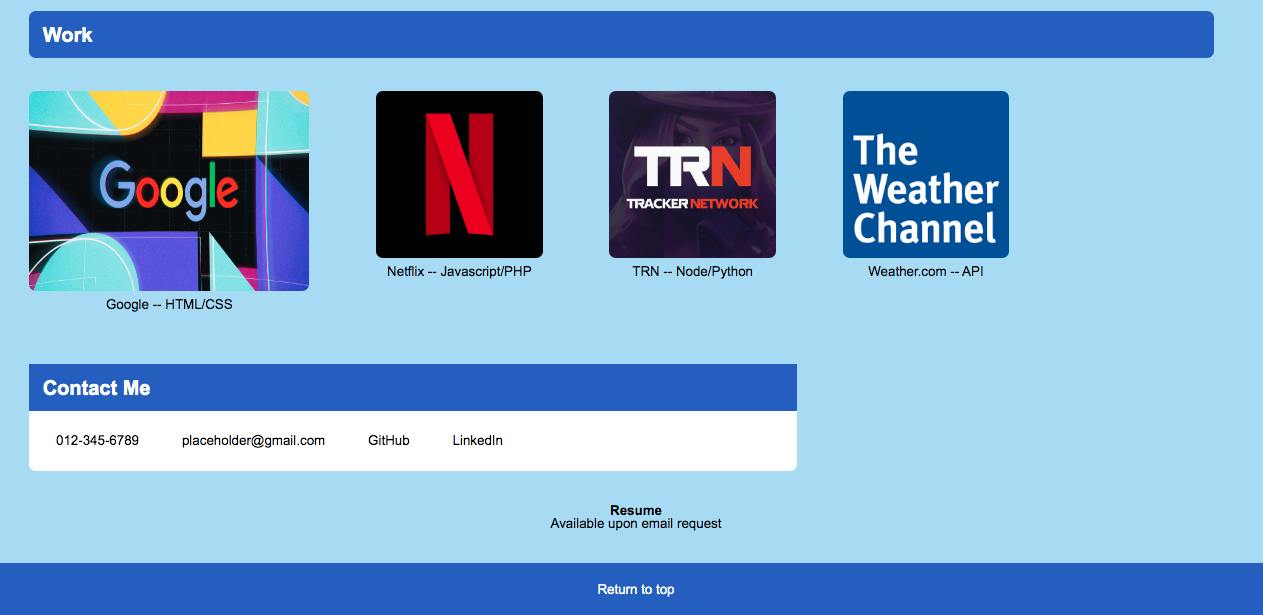
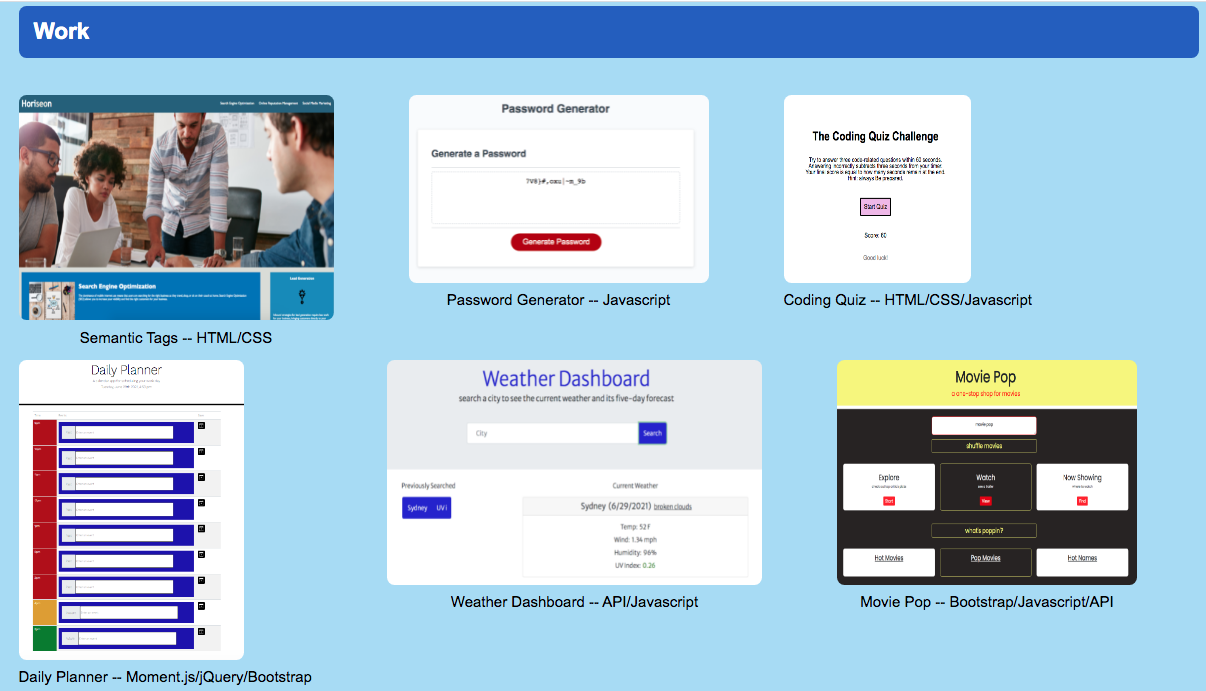
updated readme

diff --git a/README.md b/README.md
@@ -2,11 +2,11 @@
 
 Summary: 
 <br>
-The objective of this application is to function as a placeholder for future portfolio content and working applications. Principles of HMTL, CSS, and Git were employed. Please check back during the summer months of 2021, as content will be updated periodically. All past homework (1-6) and project 1 has been updated as of 6/29/21. For best results, render using Google Chrome.
+The objective of this application is to function as a portfolio containing professional content and working applications. HMTL, CSS, and Git were used. Please check back during the summer months of 2021, as content will be updated periodically. All past homework and project 1 have been updated as of 6/29/21. For best results, render using Chrome.
 
 Breakdown: 
 <br>
-Navigation links have been set up to scroll to the associated content. An "About Me" section highlights bio, interests, and hobbies. The current portfolio contains placeholder images which direct the user to pre-existing web applications such as Google. These applications will be updated periodically throughout the curriculum and finalized at the end of the course to reflect one's own work. "Contact Me" contains a fake number and email, but the GitHub and LinkedIn links are legitimate. Finally, a footer link has been added so the user can more conveniently return to the top of page.
+Navigation links have been set up to scroll to the associated content. An "About Me" section highlights bio, interests, and hobbies. The current portfolio contains homework assignments 1-6 and group project 1. These applications will be updated periodically throughout the curriculum and finalized at the end of the course to reflect all bootcamp applications. "Contact Me" contains a fake number and email, but the GitHub and LinkedIn links are legitimate. Finally, a footer link has been added so the user can more conveniently return to the top of page.
 
 URL:
 <br>
